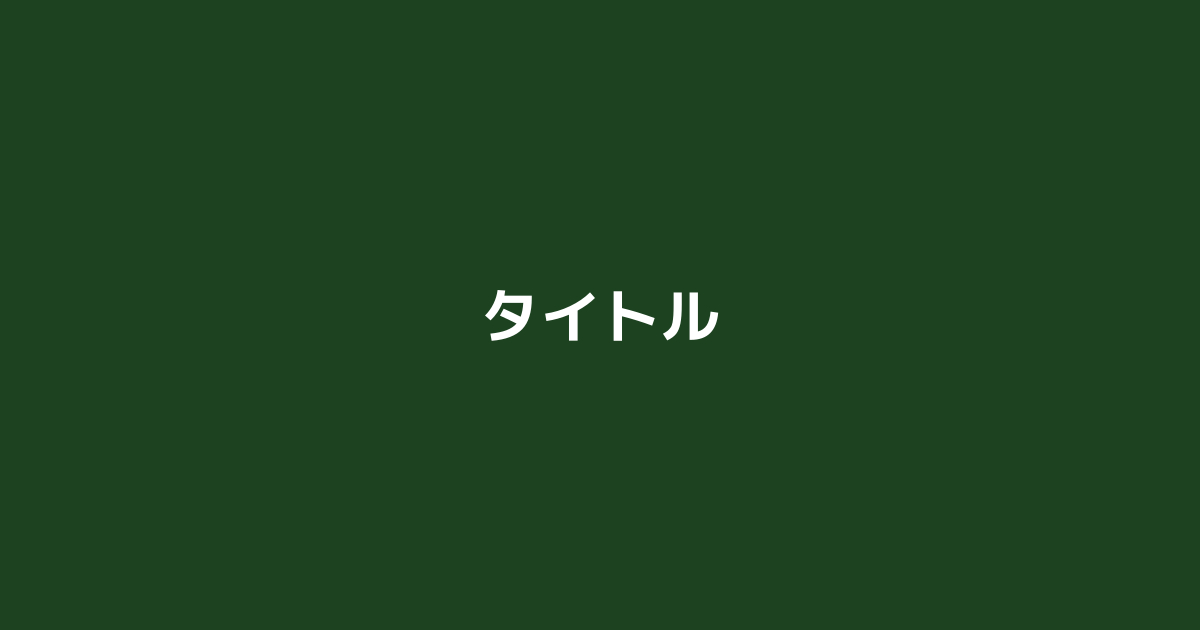
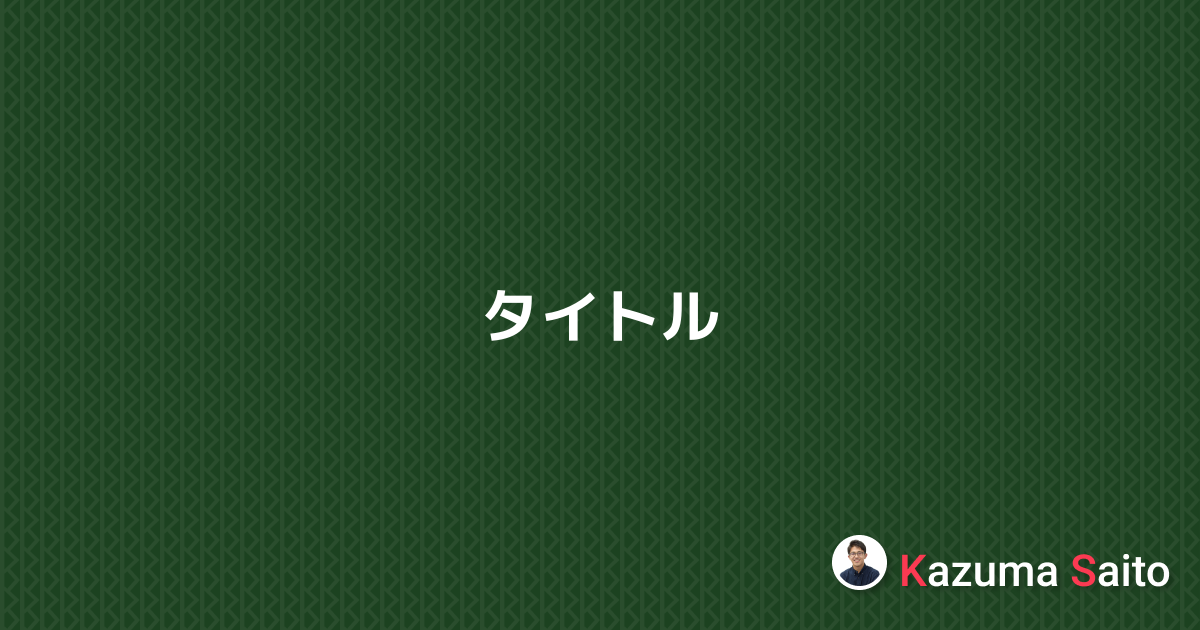
seoの追加

Changed region(s): [[0.6783, 0.8444, 0.9867, 0.9349]]

diff --git a/nuxt.config.js b/nuxt.config.js
@@ -32,7 +32,7 @@ const generaterOGP = (callback) => {
   callback(null, routes)
 }
 
-const SITE_TITLE = "Kazuma-Saito"
+const SITE_TITLE = "Kazuma Saito"
 
 export default {
   mode: "universal",
@@ -44,17 +44,30 @@ export default {
       {
         hid: "description",
         name: "description",
-        content: "Kazuma Saitoのポートフォリオサイト",
+        content:
+          "Kazuma Saitoのポートフォリオサイトです。私について知りたい方はこちらのサイトをご覧いただけるとうれしいです。",
       },
       { hid: "og:site_name", property: "og:site_name", content: SITE_TITLE },
       { hid: "og:type", property: "og:type", content: "website" },
       { hid: "og:title", property: "og:title", content: SITE_TITLE },
       { hid: "og:url", property: "og:url", content: "https://ka-zu-ma.com/" },
       {
+        hid: "og:img",
+        property: "og:img",
+        content: "https://ka-zu-ma.com/img/ogp.png",
+      },
+      { hid: "og:site_name", property: "og:site_name", content: SITE_TITLE },
+      {
         hid: "og:description",
         property: "og:description",
         content: "Kazuma Saitoのポートフォリオサイト",
       },
+      {
+        hid: "twitter:card",
+        property: "twitter:card",
+        content: "summary_large_image",
+      },
+      { hid: "twitter:site", property: "twitter:site", content: "@ka3zu1ma10" },
     ],
     link: [
       // { rel: 'icon', type: 'image/x-icon', href: '/favicon.ico' }
